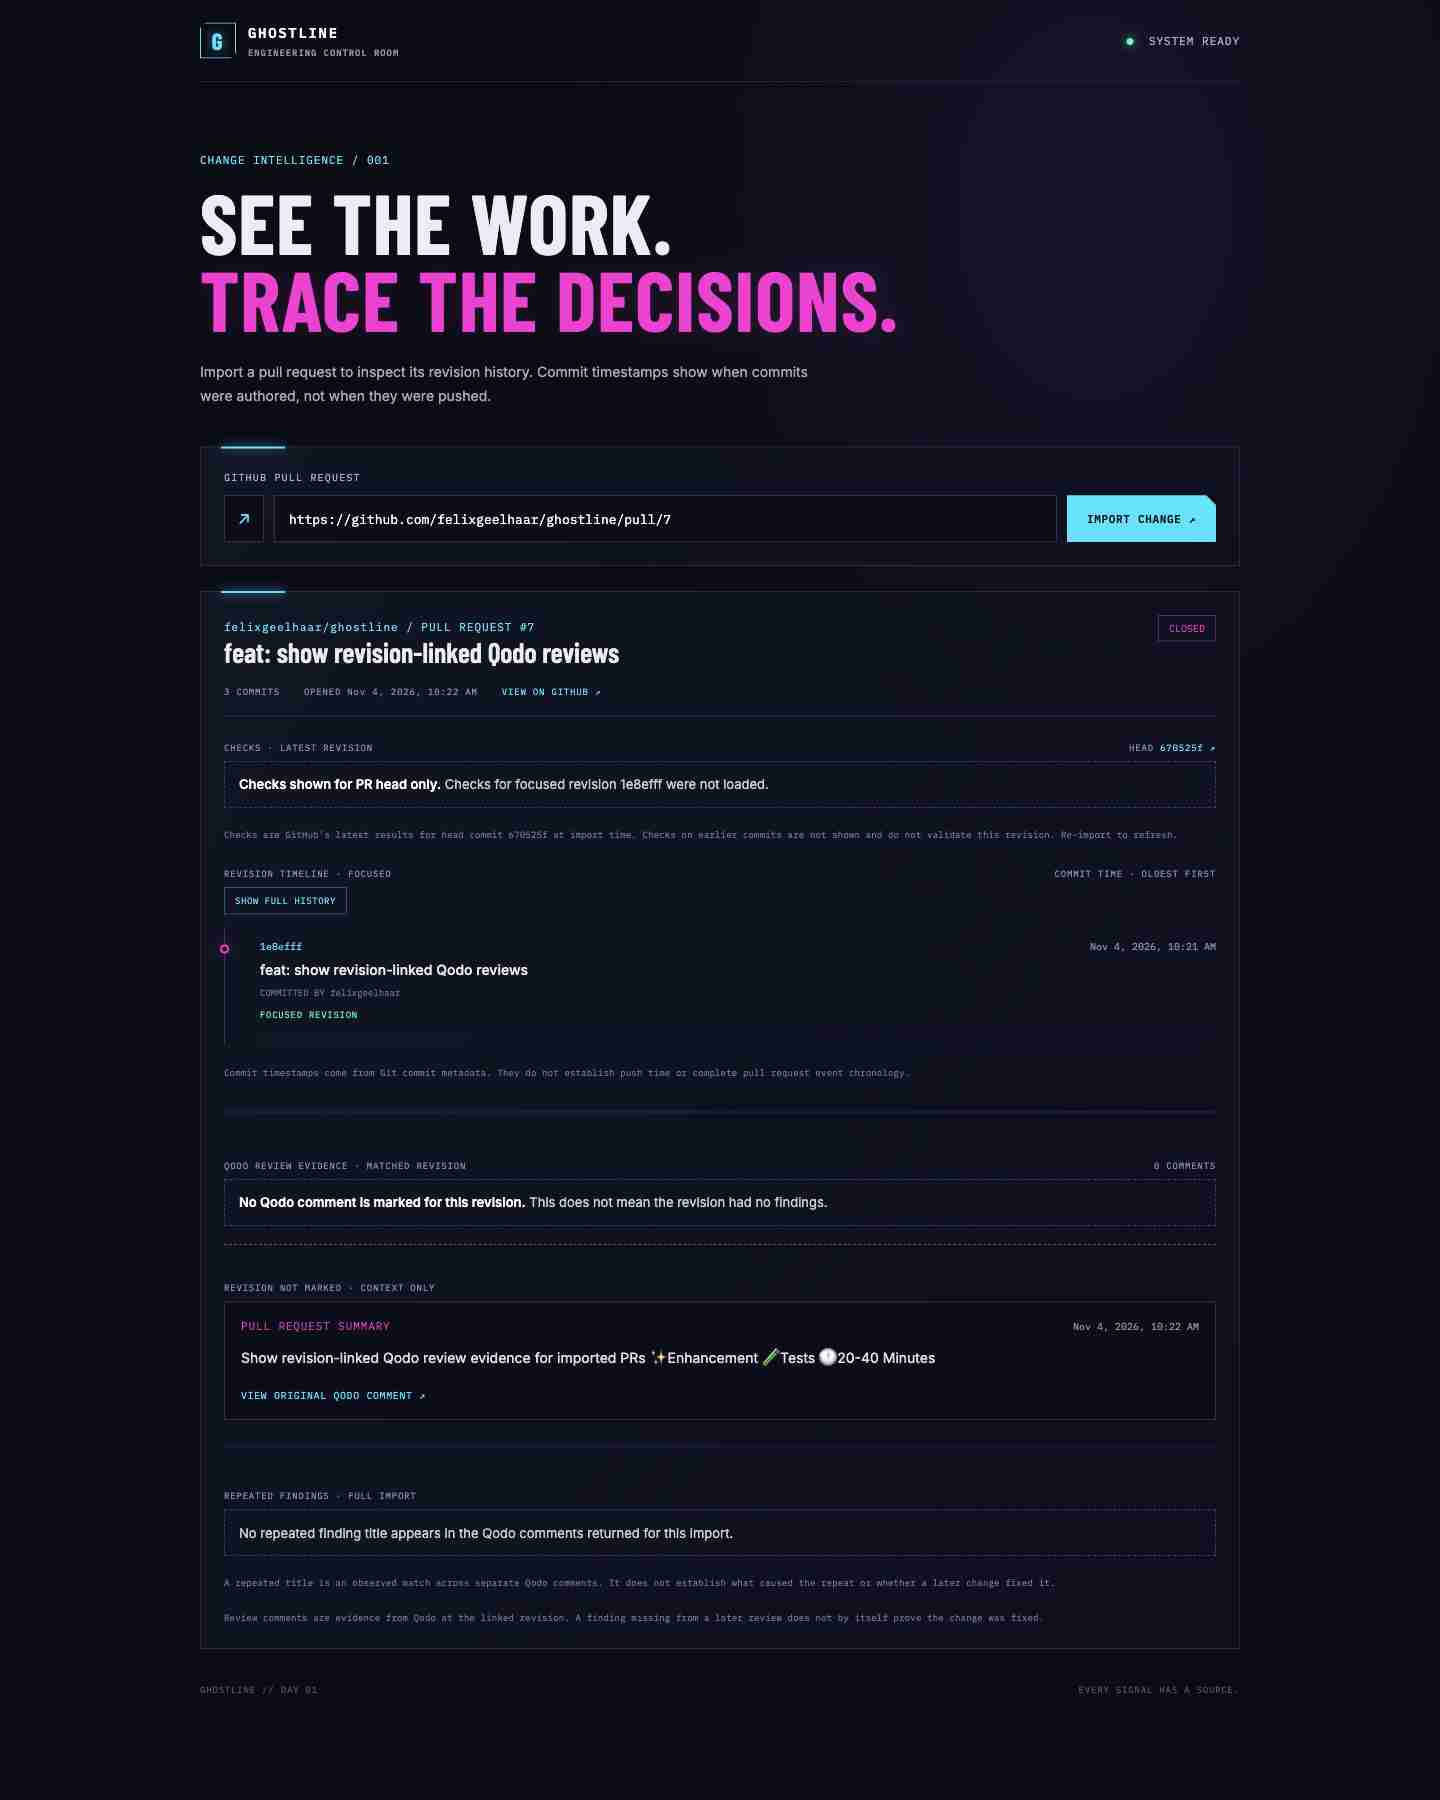
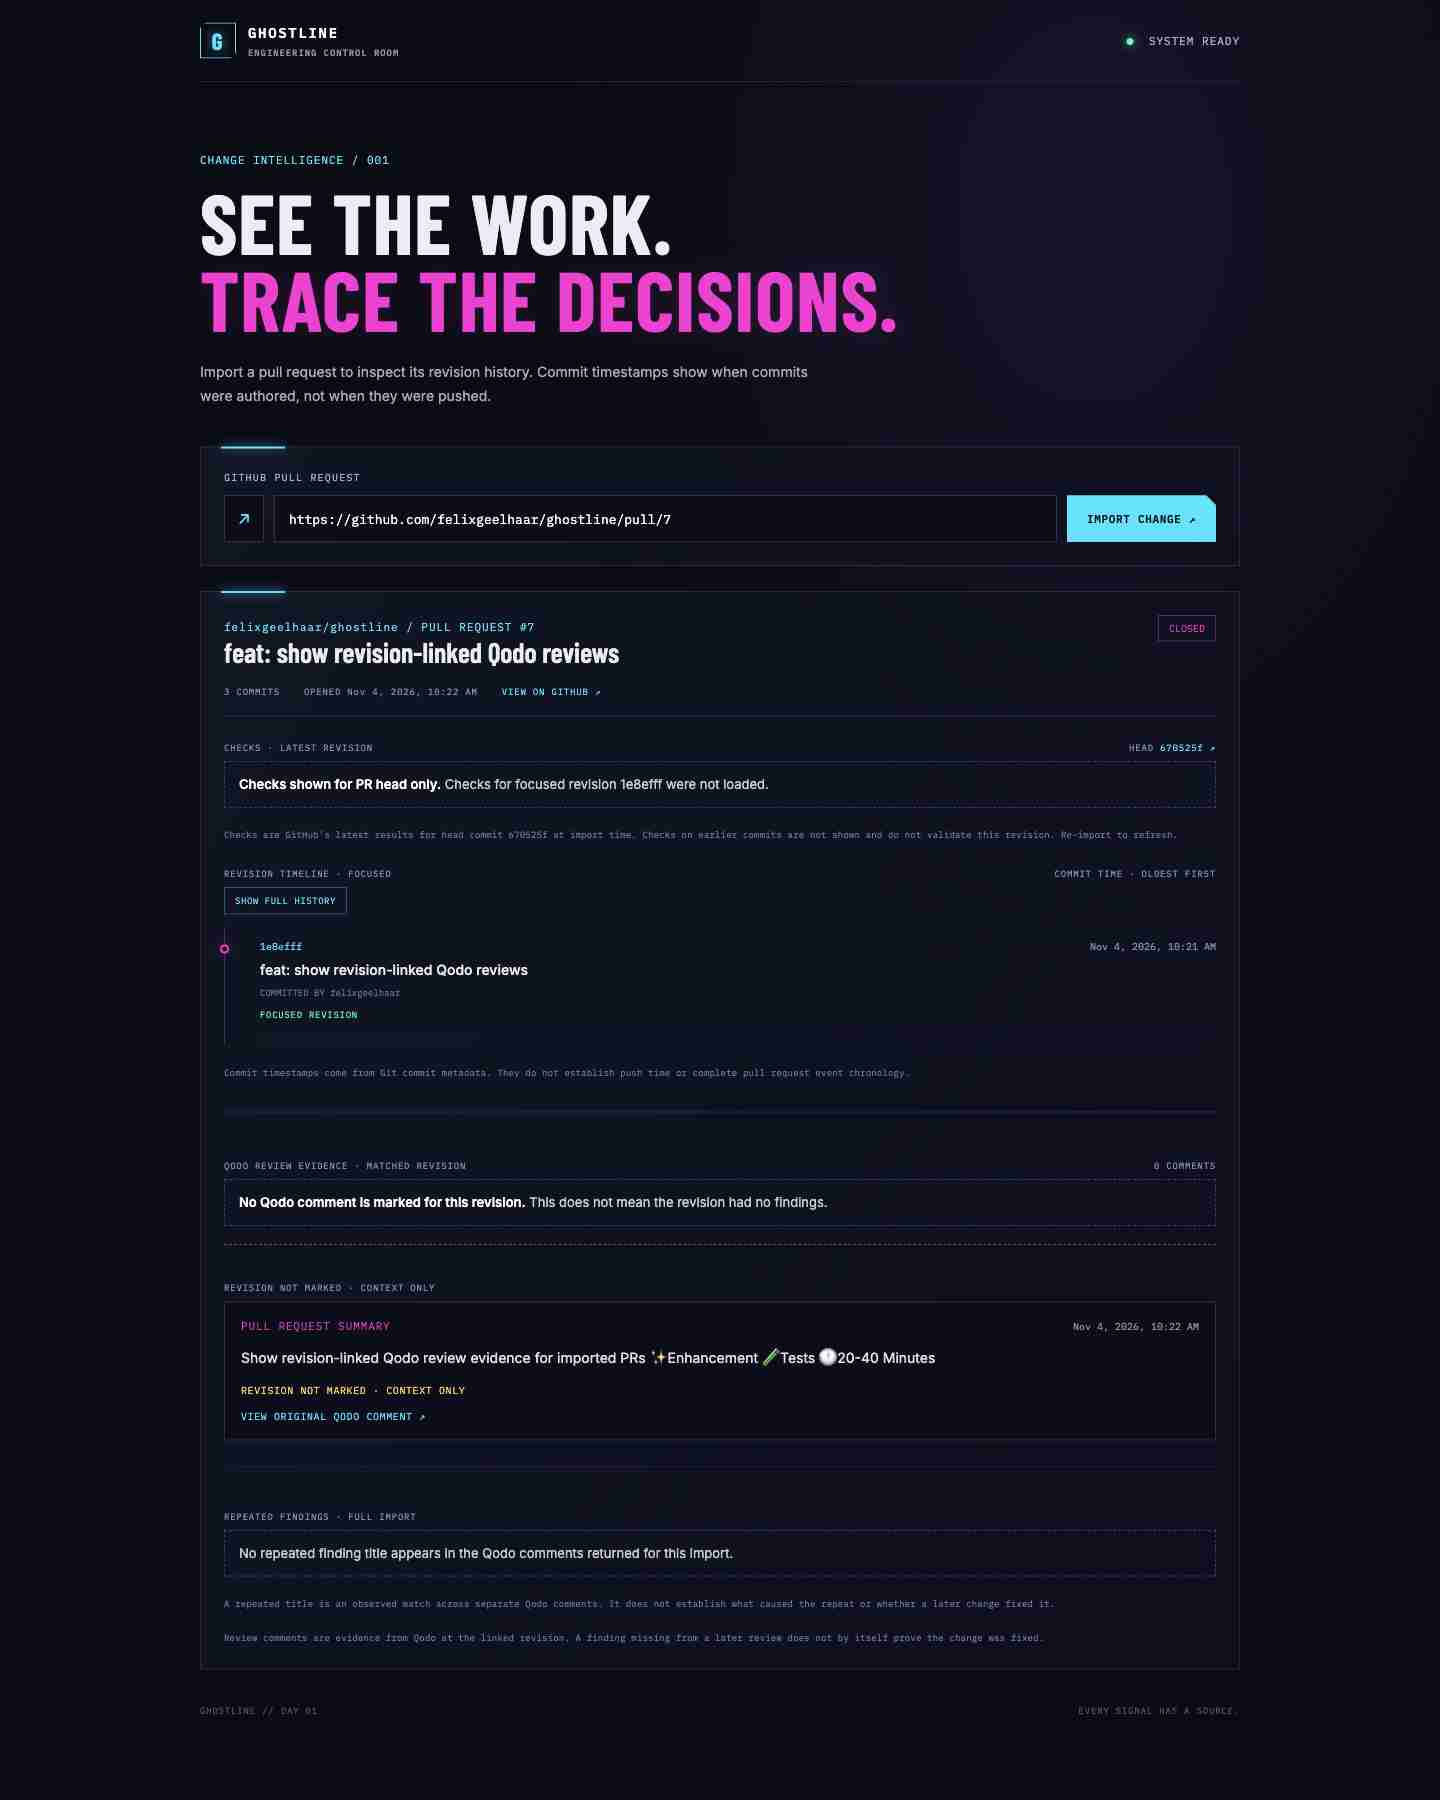
fix: consolidate revision-linked Qodo cards

Changed region(s): [[0.1562, 0.8089, 0.7188, 0.9333], [0.1562, 0.7467, 0.3125, 0.8089], [0.75, 0.9333, 0.7812, 0.9644]]

diff --git a/frontend/src/presentation/App.vue b/frontend/src/presentation/App.vue
@@ -4,6 +4,7 @@ import { importPullRequest } from '../application/importPullRequest'
 import { checkOutcome, headCommitLabel, orderChecks, summarizeChecks, type CheckTone } from '../domain/checks'
 import { findRecurringFindings, reviewsForRevision } from '../domain/reviews'
 import { validatePullRequestURL, type PullRequest } from '../domain/pullRequest'
+import ReviewCard from './ReviewCard.vue'
 
 const url = ref('')
 const pr = ref<PullRequest>()
@@ -57,8 +58,8 @@ function date(value: string) { return new Intl.DateTimeFormat(undefined, { dateS
         <p v-if="pr.qodoReviews.availability === 'unavailable'" class="checks-note warn" role="status"><strong>Qodo review unavailable.</strong> {{ pr.qodoReviews.reason }}</p>
         <p v-else-if="pr.qodoReviews.items.length === 0" class="checks-note" role="status"><strong>No Qodo review recorded.</strong> GitHub has no Qodo review comments for this pull request.</p>
         <p v-else-if="selectedRevision && selectedReviews.matched.length === 0" class="checks-note" role="status"><strong>No Qodo comment is marked for this revision.</strong> This does not mean the revision had no findings.</p>
-        <ol v-else class="review-list"><li v-for="review in selectedReviews.matched" :key="review.id"><div class="review-meta"><strong>{{ review.kind === 'findings' ? 'Code review findings' : 'Pull request summary' }}</strong><time>{{ date(review.createdAt) }}</time></div><p v-if="review.summary" class="review-summary">{{ review.summary }}</p><ul v-if="review.findingTitles.length" class="finding-list"><li v-for="(title, index) in review.findingTitles" :key="`${review.id}:${index}`">{{ title }}</li></ul><p v-if="review.commitSha" class="review-revision">REVIEWED REVISION <a :href="review.commitUrl" target="_blank" rel="noreferrer">{{ review.commitSha.slice(0, 7) }} ↗</a></p><p v-else-if="selectedRevision" class="review-revision unmarked">REVISION NOT MARKED · SHOWN FOR CONTEXT</p><a class="review-source" :href="review.url" target="_blank" rel="noreferrer">VIEW ORIGINAL QODO COMMENT ↗</a></li></ol>
-        <section v-if="selectedRevision && selectedReviews.unmarked.length" class="unmarked-reviews"><h4 class="section-title"><span>REVISION NOT MARKED · CONTEXT ONLY</span></h4><ol class="review-list"><li v-for="review in selectedReviews.unmarked" :key="review.id"><div class="review-meta"><strong>{{ review.kind === 'findings' ? 'Code review findings' : 'Pull request summary' }}</strong><time>{{ date(review.createdAt) }}</time></div><p v-if="review.summary" class="review-summary">{{ review.summary }}</p><ul v-if="review.findingTitles.length" class="finding-list"><li v-for="(title, index) in review.findingTitles" :key="`${review.id}:${index}`">{{ title }}</li></ul><a class="review-source" :href="review.url" target="_blank" rel="noreferrer">VIEW ORIGINAL QODO COMMENT ↗</a></li></ol></section>
+        <ol v-else class="review-list"><li v-for="review in selectedReviews.matched" :key="review.id"><ReviewCard :review="review" /></li></ol>
+        <section v-if="selectedRevision && selectedReviews.unmarked.length" class="unmarked-reviews"><h4 class="section-title"><span>REVISION NOT MARKED · CONTEXT ONLY</span></h4><ol class="review-list"><li v-for="review in selectedReviews.unmarked" :key="review.id"><ReviewCard :review="review" context-only /></li></ol></section>
         <section v-if="pr.qodoReviews.availability === 'available'" class="recurrence" aria-labelledby="recurrence-title"><h4 id="recurrence-title" class="section-title"><span>REPEATED FINDINGS · FULL IMPORT</span></h4><p v-if="recurringFindings.length === 0" class="checks-note" role="status">No repeated finding title appears in the Qodo comments returned for this import.</p><ol v-else class="recurrence-list"><li v-for="finding in recurringFindings" :key="finding.title.toLowerCase()"><div class="review-meta"><strong>{{ finding.title }}</strong><span class="recurrence-count">{{ finding.occurrences.length }} separate comments</span></div><ul><li v-for="occurrence in finding.occurrences" :key="occurrence.reviewId"><time>{{ date(occurrence.createdAt) }}</time><a v-if="occurrence.commitSha && occurrence.commitUrl" :href="occurrence.commitUrl" target="_blank" rel="noreferrer">REVISION {{ occurrence.commitSha.slice(0, 7) }} ↗</a><span v-else>REVISION NOT MARKED</span><a :href="occurrence.url" target="_blank" rel="noreferrer">SOURCE COMMENT ↗</a></li></ul></li></ol><p class="footnote">A repeated title is an observed match across separate Qodo comments. It does not establish what caused the repeat or whether a later change fixed it.</p></section>
         <p class="footnote">Review comments are evidence from Qodo at the linked revision. A finding missing from a later review does not by itself prove the change was fixed.</p>
       </section>

diff --git a/frontend/src/presentation/ReviewCard.vue b/frontend/src/presentation/ReviewCard.vue
@@ -1,0 +1,18 @@
+<script setup lang="ts">
+import type { QodoReview } from '../domain/reviews'
+
+defineProps<{ review: QodoReview; contextOnly?: boolean }>()
+
+function date(value: string) {
+  return new Intl.DateTimeFormat(undefined, { dateStyle: 'medium', timeStyle: 'short' }).format(new Date(value))
+}
+</script>
+
+<template>
+  <div class="review-meta"><strong>{{ review.kind === 'findings' ? 'Code review findings' : 'Pull request summary' }}</strong><time>{{ date(review.createdAt) }}</time></div>
+  <p v-if="review.summary" class="review-summary">{{ review.summary }}</p>
+  <ul v-if="review.findingTitles.length" class="finding-list"><li v-for="(title, index) in review.findingTitles" :key="`${review.id}:${index}`">{{ title }}</li></ul>
+  <p v-if="review.commitSha && review.commitUrl" class="review-revision">REVIEWED REVISION <a :href="review.commitUrl" target="_blank" rel="noreferrer">{{ review.commitSha.slice(0, 7) }} ↗</a></p>
+  <p v-else-if="contextOnly" class="review-revision unmarked">REVISION NOT MARKED · CONTEXT ONLY</p>
+  <a class="review-source" :href="review.url" target="_blank" rel="noreferrer">VIEW ORIGINAL QODO COMMENT ↗</a>
+</template>
